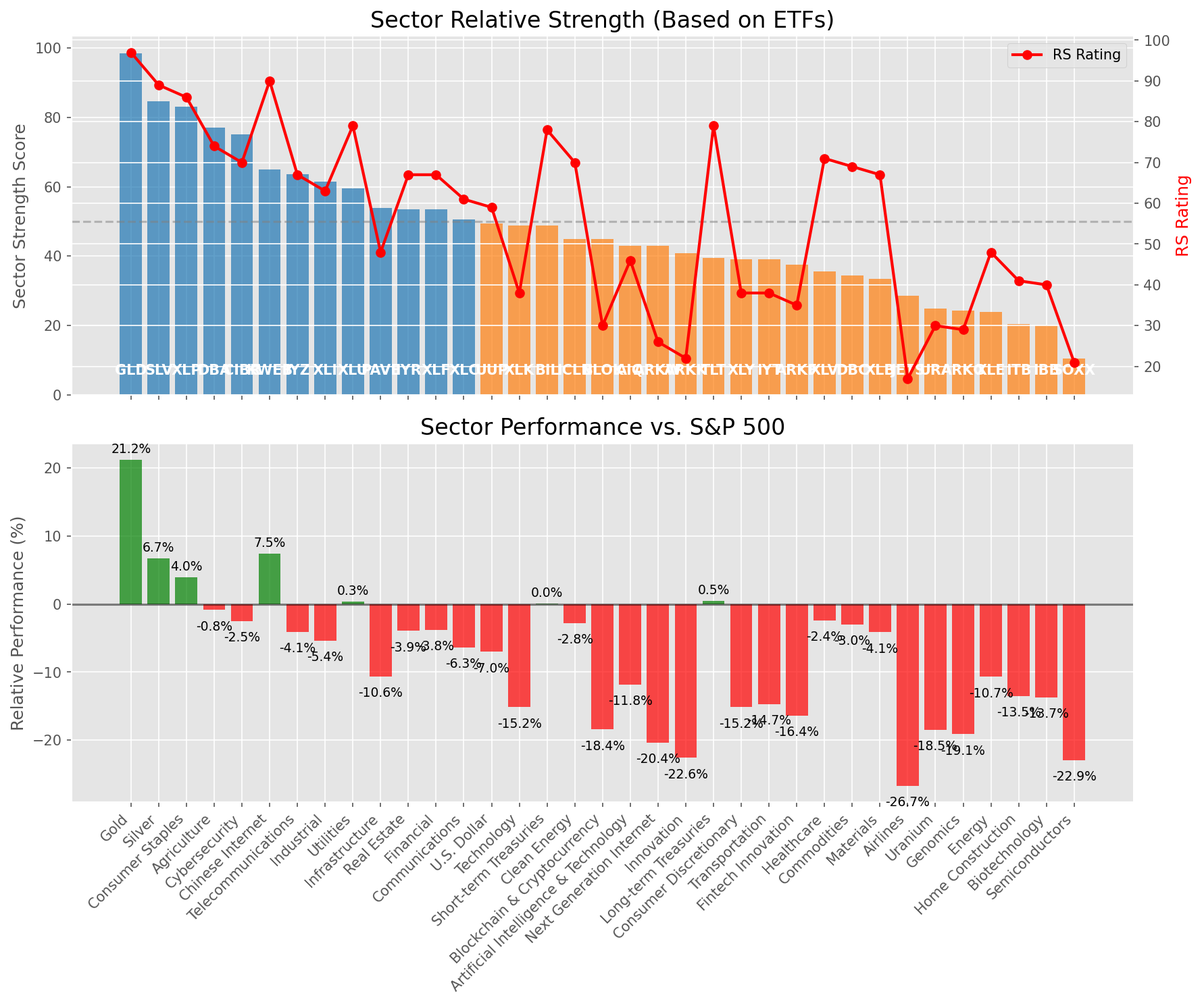
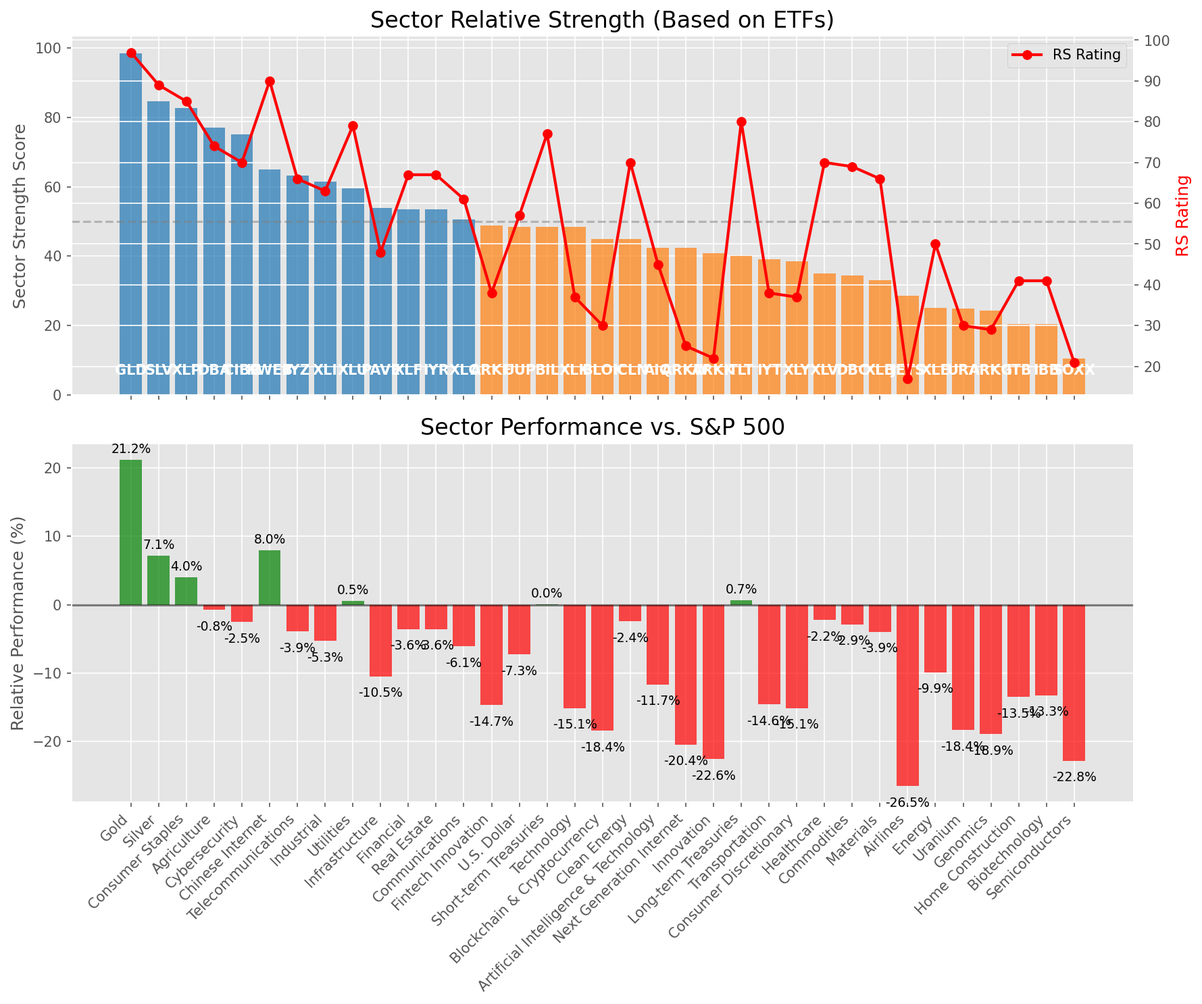
Add market report for 2025-04-11

diff --git a/oneil_relative_strength_report_2025-04-11.md b/oneil_relative_strength_report_2025-04-11.md
@@ -9,11 +9,11 @@
 | Metric | Value |
 |--------|-------|
 | **Market Valuation** | **Significantly Undervalued** |
-| **Current Ratio** | 8.78 |
+| **Current Ratio** | 8.81 |
 | **Historical Mean** | 9.69 |
 | **Standard Deviation** | 0.44 |
 | **Z-Score (StdDev from Mean)** | -2.33 |
-| **Total Market Cap** | $261.09 trillion |
+| **Total Market Cap** | $261.95 trillion |
 | **GDP** | $29.72 trillion |
 
 ## **Market Insights**
@@ -49,41 +49,41 @@ Based on William O'Neil's Relative Strength Methodology
 
 | ETF | Strength | RS Rating | Performance | Above Key MAs | Trend | Sector |
 |-----|----------|-----------|-------------|--------------|-------|--------|
-| [GLD](https://www.tradingview.com/chart/?symbol=GLD) | 98.5 | 97.0 | 21.24% | 10d ✓, 50d ✓, 200d ✓ | ↗ | Gold |
-| [SLV](https://www.tradingview.com/chart/?symbol=SLV) | 84.6 | 89.0 | 6.70% | 10d ✓, 50d ✗, 200d ✓ | ↗ | Silver |
-| [XLP](https://www.tradingview.com/chart/?symbol=XLP) | 83.1 | 86.0 | 3.99% | 10d ✓, 50d ✗, 200d ✓ | ↗ | Consumer Staples |
-| [DBA](https://www.tradingview.com/chart/?symbol=DBA) | 77.1 | 74.0 | -0.85% | 10d ✓, 50d ✗, 200d ✓ | ↗ | Agriculture |
-| [CIBR](https://www.tradingview.com/chart/?symbol=CIBR) | 75.1 | 70.0 | -2.49% | 10d ✓, 50d ✗, 200d ✓ | ↗ | Cybersecurity |
-| [KWEB](https://www.tradingview.com/chart/?symbol=KWEB) | 65.0 | 90.0 | 7.46% | 10d ✗, 50d ✗, 200d ✗ | ↗ | Chinese Internet |
-| [IYZ](https://www.tradingview.com/chart/?symbol=IYZ) | 63.7 | 67.0 | -4.05% | 10d ✗, 50d ✗, 200d ✓ | ↗ | Telecommunications |
-| [XLI](https://www.tradingview.com/chart/?symbol=XLI) | 61.4 | 63.0 | -5.39% | 10d ✓, 50d ✗, 200d ✗ | ↗ | Industrial |
-| [XLU](https://www.tradingview.com/chart/?symbol=XLU) | 59.5 | 79.0 | 0.33% | 10d ✗, 50d ✗, 200d ✗ | ↗ | Utilities |
-| [PAVE](https://www.tradingview.com/chart/?symbol=PAVE) | 53.9 | 48.0 | -10.64% | 10d ✓, 50d ✗, 200d ✗ | ↗ | Infrastructure |
-| [IYR](https://www.tradingview.com/chart/?symbol=IYR) | 53.5 | 67.0 | -3.92% | 10d ✗, 50d ✗, 200d ✗ | ↗ | Real Estate |
-| [XLF](https://www.tradingview.com/chart/?symbol=XLF) | 53.5 | 67.0 | -3.75% | 10d ✗, 50d ✗, 200d ✗ | ↗ | Financial |
-| [XLC](https://www.tradingview.com/chart/?symbol=XLC) | 50.5 | 61.0 | -6.34% | 10d ✗, 50d ✗, 200d ✗ | ↗ | Communications |
-| [UUP](https://www.tradingview.com/chart/?symbol=UUP) | 49.5 | 59.0 | -7.02% | 10d ✗, 50d ✗, 200d ✗ | ↗ | U.S. Dollar |
-| [XLK](https://www.tradingview.com/chart/?symbol=XLK) | 48.9 | 38.0 | -15.17% | 10d ✓, 50d ✗, 200d ✗ | ↗ | Technology |
-| [BIL](https://www.tradingview.com/chart/?symbol=BIL) | 48.9 | 78.0 | 0.04% | 10d ✓, 50d ✗, 200d ✗ | ↘ | Short-term Treasuries |
-| [ICLN](https://www.tradingview.com/chart/?symbol=ICLN) | 44.9 | 70.0 | -2.78% | 10d ✓, 50d ✗, 200d ✗ | ↘ | Clean Energy |
+| [GLD](https://www.tradingview.com/chart/?symbol=GLD) | 98.5 | 97.0 | 21.20% | 10d ✓, 50d ✓, 200d ✓ | ↗ | Gold |
+| [SLV](https://www.tradingview.com/chart/?symbol=SLV) | 84.6 | 89.0 | 7.12% | 10d ✓, 50d ✗, 200d ✓ | ↗ | Silver |
+| [XLP](https://www.tradingview.com/chart/?symbol=XLP) | 82.6 | 85.0 | 4.04% | 10d ✓, 50d ✗, 200d ✓ | ↗ | Consumer Staples |
+| [DBA](https://www.tradingview.com/chart/?symbol=DBA) | 77.1 | 74.0 | -0.77% | 10d ✓, 50d ✗, 200d ✓ | ↗ | Agriculture |
+| [CIBR](https://www.tradingview.com/chart/?symbol=CIBR) | 75.1 | 70.0 | -2.54% | 10d ✓, 50d ✗, 200d ✓ | ↗ | Cybersecurity |
+| [KWEB](https://www.tradingview.com/chart/?symbol=KWEB) | 65.0 | 90.0 | 8.00% | 10d ✗, 50d ✗, 200d ✗ | ↗ | Chinese Internet |
+| [IYZ](https://www.tradingview.com/chart/?symbol=IYZ) | 63.2 | 66.0 | -3.94% | 10d ✗, 50d ✗, 200d ✓ | ↗ | Telecommunications |
+| [XLI](https://www.tradingview.com/chart/?symbol=XLI) | 61.4 | 63.0 | -5.29% | 10d ✓, 50d ✗, 200d ✗ | ↗ | Industrial |
+| [XLU](https://www.tradingview.com/chart/?symbol=XLU) | 59.5 | 79.0 | 0.54% | 10d ✗, 50d ✗, 200d ✗ | ↗ | Utilities |
+| [PAVE](https://www.tradingview.com/chart/?symbol=PAVE) | 53.9 | 48.0 | -10.48% | 10d ✓, 50d ✗, 200d ✗ | ↗ | Infrastructure |
+| [XLF](https://www.tradingview.com/chart/?symbol=XLF) | 53.5 | 67.0 | -3.60% | 10d ✗, 50d ✗, 200d ✗ | ↗ | Financial |
+| [IYR](https://www.tradingview.com/chart/?symbol=IYR) | 53.5 | 67.0 | -3.59% | 10d ✗, 50d ✗, 200d ✗ | ↗ | Real Estate |
+| [XLC](https://www.tradingview.com/chart/?symbol=XLC) | 50.5 | 61.0 | -6.11% | 10d ✗, 50d ✗, 200d ✗ | ↗ | Communications |
+| [ARKF](https://www.tradingview.com/chart/?symbol=ARKF) | 48.9 | 38.0 | -14.68% | 10d ✓, 50d ✗, 200d ✗ | ↗ | Fintech Innovation |
+| [UUP](https://www.tradingview.com/chart/?symbol=UUP) | 48.5 | 57.0 | -7.26% | 10d ✗, 50d ✗, 200d ✗ | ↗ | U.S. Dollar |
+| [BIL](https://www.tradingview.com/chart/?symbol=BIL) | 48.4 | 77.0 | 0.04% | 10d ✓, 50d ✗, 200d ✗ | ↘ | Short-term Treasuries |
+| [XLK](https://www.tradingview.com/chart/?symbol=XLK) | 48.4 | 37.0 | -15.12% | 10d ✓, 50d ✗, 200d ✗ | ↗ | Technology |
 | [BLOK](https://www.tradingview.com/chart/?symbol=BLOK) | 44.9 | 30.0 | -18.42% | 10d ✓, 50d ✗, 200d ✗ | ↗ | Blockchain & Cryptocurrency |
-| [AIQ](https://www.tradingview.com/chart/?symbol=AIQ) | 43.0 | 46.0 | -11.81% | 10d ✗, 50d ✗, 200d ✗ | ↗ | Artificial Intelligence & Technology |
-| [ARKW](https://www.tradingview.com/chart/?symbol=ARKW) | 42.9 | 26.0 | -20.37% | 10d ✓, 50d ✗, 200d ✗ | ↗ | Next Generation Internet |
-| [ARKK](https://www.tradingview.com/chart/?symbol=ARKK) | 40.9 | 22.0 | -22.61% | 10d ✓, 50d ✗, 200d ✗ | ↗ | Innovation |
-| [TLT](https://www.tradingview.com/chart/?symbol=TLT) | 39.5 | 79.0 | 0.48% | 10d ✗, 50d ✗, 200d ✗ | ↘ | Long-term Treasuries |
-| [XLY](https://www.tradingview.com/chart/?symbol=XLY) | 39.0 | 38.0 | -15.16% | 10d ✗, 50d ✗, 200d ✗ | ↗ | Consumer Discretionary |
-| [IYT](https://www.tradingview.com/chart/?symbol=IYT) | 39.0 | 38.0 | -14.70% | 10d ✗, 50d ✗, 200d ✗ | ↗ | Transportation |
-| [ARKF](https://www.tradingview.com/chart/?symbol=ARKF) | 37.5 | 35.0 | -16.38% | 10d ✗, 50d ✗, 200d ✗ | ↗ | Fintech Innovation |
-| [XLV](https://www.tradingview.com/chart/?symbol=XLV) | 35.5 | 71.0 | -2.41% | 10d ✗, 50d ✗, 200d ✗ | ↘ | Healthcare |
-| [DBC](https://www.tradingview.com/chart/?symbol=DBC) | 34.5 | 69.0 | -2.97% | 10d ✗, 50d ✗, 200d ✗ | ↘ | Commodities |
-| [XLB](https://www.tradingview.com/chart/?symbol=XLB) | 33.5 | 67.0 | -4.13% | 10d ✗, 50d ✗, 200d ✗ | ↘ | Materials |
-| [JETS](https://www.tradingview.com/chart/?symbol=JETS) | 28.5 | 17.0 | -26.74% | 10d ✗, 50d ✗, 200d ✗ | ↗ | Airlines |
-| [URA](https://www.tradingview.com/chart/?symbol=URA) | 24.9 | 30.0 | -18.46% | 10d ✓, 50d ✗, 200d ✗ | ↘ | Uranium |
-| [ARKG](https://www.tradingview.com/chart/?symbol=ARKG) | 24.4 | 29.0 | -19.12% | 10d ✓, 50d ✗, 200d ✗ | ↘ | Genomics |
-| [XLE](https://www.tradingview.com/chart/?symbol=XLE) | 24.0 | 48.0 | -10.68% | 10d ✗, 50d ✗, 200d ✗ | ↘ | Energy |
-| [ITB](https://www.tradingview.com/chart/?symbol=ITB) | 20.5 | 41.0 | -13.49% | 10d ✗, 50d ✗, 200d ✗ | ↘ | Home Construction |
-| [IBB](https://www.tradingview.com/chart/?symbol=IBB) | 20.0 | 40.0 | -13.71% | 10d ✗, 50d ✗, 200d ✗ | ↘ | Biotechnology |
-| [SOXX](https://www.tradingview.com/chart/?symbol=SOXX) | 10.5 | 21.0 | -22.92% | 10d ✗, 50d ✗, 200d ✗ | ↘ | Semiconductors |
+| [ICLN](https://www.tradingview.com/chart/?symbol=ICLN) | 44.9 | 70.0 | -2.43% | 10d ✓, 50d ✗, 200d ✗ | ↘ | Clean Energy |
+| [AIQ](https://www.tradingview.com/chart/?symbol=AIQ) | 42.5 | 45.0 | -11.65% | 10d ✗, 50d ✗, 200d ✗ | ↗ | Artificial Intelligence & Technology |
+| [ARKW](https://www.tradingview.com/chart/?symbol=ARKW) | 42.4 | 25.0 | -20.44% | 10d ✓, 50d ✗, 200d ✗ | ↗ | Next Generation Internet |
+| [ARKK](https://www.tradingview.com/chart/?symbol=ARKK) | 40.9 | 22.0 | -22.60% | 10d ✓, 50d ✗, 200d ✗ | ↗ | Innovation |
+| [TLT](https://www.tradingview.com/chart/?symbol=TLT) | 40.0 | 80.0 | 0.68% | 10d ✗, 50d ✗, 200d ✗ | ↘ | Long-term Treasuries |
+| [IYT](https://www.tradingview.com/chart/?symbol=IYT) | 39.0 | 38.0 | -14.60% | 10d ✗, 50d ✗, 200d ✗ | ↗ | Transportation |
+| [XLY](https://www.tradingview.com/chart/?symbol=XLY) | 38.5 | 37.0 | -15.14% | 10d ✗, 50d ✗, 200d ✗ | ↗ | Consumer Discretionary |
+| [XLV](https://www.tradingview.com/chart/?symbol=XLV) | 35.0 | 70.0 | -2.24% | 10d ✗, 50d ✗, 200d ✗ | ↘ | Healthcare |
+| [DBC](https://www.tradingview.com/chart/?symbol=DBC) | 34.5 | 69.0 | -2.87% | 10d ✗, 50d ✗, 200d ✗ | ↘ | Commodities |
+| [XLB](https://www.tradingview.com/chart/?symbol=XLB) | 33.0 | 66.0 | -3.94% | 10d ✗, 50d ✗, 200d ✗ | ↘ | Materials |
+| [JETS](https://www.tradingview.com/chart/?symbol=JETS) | 28.5 | 17.0 | -26.50% | 10d ✗, 50d ✗, 200d ✗ | ↗ | Airlines |
+| [XLE](https://www.tradingview.com/chart/?symbol=XLE) | 25.0 | 50.0 | -9.92% | 10d ✗, 50d ✗, 200d ✗ | ↘ | Energy |
+| [URA](https://www.tradingview.com/chart/?symbol=URA) | 24.9 | 30.0 | -18.35% | 10d ✓, 50d ✗, 200d ✗ | ↘ | Uranium |
+| [ARKG](https://www.tradingview.com/chart/?symbol=ARKG) | 24.4 | 29.0 | -18.95% | 10d ✓, 50d ✗, 200d ✗ | ↘ | Genomics |
+| [ITB](https://www.tradingview.com/chart/?symbol=ITB) | 20.5 | 41.0 | -13.51% | 10d ✗, 50d ✗, 200d ✗ | ↘ | Home Construction |
+| [IBB](https://www.tradingview.com/chart/?symbol=IBB) | 20.5 | 41.0 | -13.27% | 10d ✗, 50d ✗, 200d ✗ | ↘ | Biotechnology |
+| [SOXX](https://www.tradingview.com/chart/?symbol=SOXX) | 10.5 | 21.0 | -22.80% | 10d ✗, 50d ✗, 200d ✗ | ↘ | Semiconductors |
 
 ### **Sector ETF Performance Interpretation**
 
@@ -100,146 +100,149 @@ This table shows the relative strength metrics for different market sectors base
 
 The current market leadership is coming from the following sectors: **Gold, Silver, Consumer Staples**.
 
-The **Gold** sector (represented by **GLD**) is showing particularly strong relative strength with an RS rating of 97.0 and performance of 21.24% vs. the S&P 500. This sector is trading above its 10-day, 50-day, 200-day moving average(s). Investors should consider focusing on high RS stocks within these leading sectors for potential outperformance.
+The **Gold** sector (represented by **GLD**) is showing particularly strong relative strength with an RS rating of 97.0 and performance of 21.20% vs. the S&P 500. This sector is trading above its 10-day, 50-day, 200-day moving average(s). Investors should consider focusing on high RS stocks within these leading sectors for potential outperformance.
 
 ---
 
 ## **Buy Recommendations**
 
-The following 71 stocks show exceptional relative strength:
+The following 75 stocks show exceptional relative strength:
 
 | RS Rating | Buy Score | Current Price | Chart | Name | Ticker |
 |-----------|-----------|---------------|-------|------|--------|
-| 100 | 100 | $82.75 | [Chart](https://www.tradingview.com/chart/?symbol=WPM) | Wheaton Precious Metals Corp. Common Stock | WPM |
-| 100 | 100 | $29.57 | [Chart](https://www.tradingview.com/chart/?symbol=AGI) | Alamos Gold Inc. Class A Common Shares | AGI |
+| 100 | 100 | $29.44 | [Chart](https://www.tradingview.com/chart/?symbol=AGI) | Alamos Gold Inc. Class A Common Shares | AGI |
+| 100 | 100 | $82.87 | [Chart](https://www.tradingview.com/chart/?symbol=WPM) | Wheaton Precious Metals Corp. Common Stock | WPM |
+| 99 | 100 | $22.40 | [Chart](https://www.tradingview.com/chart/?symbol=DB) | Deutsche Bank Aktiengesellschaft | DB |
 | 99 | 100 | $18.48 | [Chart](https://www.tradingview.com/chart/?symbol=SWI) | SolarWinds Corporation Common Stock | SWI |
-| 99 | 100 | $30.99 | [Chart](https://www.tradingview.com/chart/?symbol=LTH) | Life Time Group Holdings, Inc. | LTH |
-| 99 | 100 | $22.27 | [Chart](https://www.tradingview.com/chart/?symbol=DB) | Deutsche Bank Aktiengesellschaft | DB |
-| 99 | 100 | $118.11 | [Chart](https://www.tradingview.com/chart/?symbol=AEM) | Agnico Eagle Mines Ltd. | AEM |
-| 99 | 100 | $146.32 | [Chart](https://www.tradingview.com/chart/?symbol=PLMR) | Palomar Holdings, Inc. Common stock | PLMR |
-| 99 | 100 | $15.70 | [Chart](https://www.tradingview.com/chart/?symbol=EZPW) | Ezcorp Inc | EZPW |
-| 99 | 100 | $61.41 | [Chart](https://www.tradingview.com/chart/?symbol=GDXJ) | VanEck Junior Gold Miners ETF | GDXJ |
-| 99 | 100 | $136.05 | [Chart](https://www.tradingview.com/chart/?symbol=UGL) | ProShares Ultra Gold | UGL |
-| 99 | 100 | $180.90 | [Chart](https://www.tradingview.com/chart/?symbol=RGLD) | Royal Gold Inc | RGLD |
-| 98 | 100 | $117.29 | [Chart](https://www.tradingview.com/chart/?symbol=BJ) | BJs Wholesale Club Holdings, Inc. Common Stock | BJ |
-| 98 | 100 | $76.43 | [Chart](https://www.tradingview.com/chart/?symbol=NFG) | National Fuel Gas Co. | NFG |
-| 98 | 100 | $30.85 | [Chart](https://www.tradingview.com/chart/?symbol=SGOL) | abrdn Physical Gold Shares ETF | SGOL |
+| 99 | 100 | $31.07 | [Chart](https://www.tradingview.com/chart/?symbol=LTH) | Life Time Group Holdings, Inc. | LTH |
+| 99 | 100 | $118.35 | [Chart](https://www.tradingview.com/chart/?symbol=AEM) | Agnico Eagle Mines Ltd. | AEM |
+| 99 | 100 | $136.01 | [Chart](https://www.tradingview.com/chart/?symbol=UGL) | ProShares Ultra Gold | UGL |
+| 99 | 100 | $61.48 | [Chart](https://www.tradingview.com/chart/?symbol=GDXJ) | VanEck Junior Gold Miners ETF | GDXJ |
+| 99 | 100 | $146.65 | [Chart](https://www.tradingview.com/chart/?symbol=PLMR) | Palomar Holdings, Inc. Common stock | PLMR |
+| 99 | 100 | $180.70 | [Chart](https://www.tradingview.com/chart/?symbol=RGLD) | Royal Gold Inc | RGLD |
+| 99 | 100 | $15.69 | [Chart](https://www.tradingview.com/chart/?symbol=EZPW) | Ezcorp Inc | EZPW |
+| 98 | 100 | $60.98 | [Chart](https://www.tradingview.com/chart/?symbol=IAU) | iShares Gold Trust | IAU |
+| 98 | 100 | $116.82 | [Chart](https://www.tradingview.com/chart/?symbol=BJ) | BJs Wholesale Club Holdings, Inc. Common Stock | BJ |
+| 98 | 100 | $30.84 | [Chart](https://www.tradingview.com/chart/?symbol=SGOL) | abrdn Physical Gold Shares ETF | SGOL |
+| 98 | 100 | $154.51 | [Chart](https://www.tradingview.com/chart/?symbol=PM) | Philip Morris International Inc. | PM |
+| 98 | 100 | $76.69 | [Chart](https://www.tradingview.com/chart/?symbol=NFG) | National Fuel Gas Co. | NFG |
 | 98 | 100 | $32.24 | [Chart](https://www.tradingview.com/chart/?symbol=IAUM) | iShares Gold Trust Micro | IAUM |
-| 98 | 100 | $64.03 | [Chart](https://www.tradingview.com/chart/?symbol=GLDM) | SPDR Gold MiniShares | GLDM |
-| 98 | 100 | $154.43 | [Chart](https://www.tradingview.com/chart/?symbol=PM) | Philip Morris International Inc. | PM |
-| 97 | 100 | $258.79 | [Chart](https://www.tradingview.com/chart/?symbol=TMUS) | T-Mobile US, Inc. | TMUS |
-| 97 | 100 | $60.98 | [Chart](https://www.tradingview.com/chart/?symbol=IAU) | iShares Gold Trust | IAU |
-| 97 | 100 | $31.90 | [Chart](https://www.tradingview.com/chart/?symbol=BAR) | GraniteShares Gold Shares | BAR |
-| 97 | 100 | $298.07 | [Chart](https://www.tradingview.com/chart/?symbol=GLD) | SPDR Gold Trust, SPDR Gold Shares | GLD |
-| 97 | 100 | $24.82 | [Chart](https://www.tradingview.com/chart/?symbol=PHYS) | Sprott Physical Gold Trust | PHYS |
-| 97 | 100 | $22.30 | [Chart](https://www.tradingview.com/chart/?symbol=OR) | Osisko Gold Royalties Ltd | OR |
-| 97 | 100 | $72.56 | [Chart](https://www.tradingview.com/chart/?symbol=RYAN) | Ryan Specialty Holdings, Inc. | RYAN |
+| 98 | 100 | $64.02 | [Chart](https://www.tradingview.com/chart/?symbol=GLDM) | SPDR Gold MiniShares | GLDM |
+| 97 | 100 | $24.80 | [Chart](https://www.tradingview.com/chart/?symbol=PHYS) | Sprott Physical Gold Trust | PHYS |
+| 97 | 100 | $31.89 | [Chart](https://www.tradingview.com/chart/?symbol=BAR) | GraniteShares Gold Shares | BAR |
+| 97 | 100 | $72.76 | [Chart](https://www.tradingview.com/chart/?symbol=RYAN) | Ryan Specialty Holdings, Inc. | RYAN |
+| 97 | 100 | $259.33 | [Chart](https://www.tradingview.com/chart/?symbol=TMUS) | T-Mobile US, Inc. | TMUS |
+| 97 | 100 | $297.98 | [Chart](https://www.tradingview.com/chart/?symbol=GLD) | SPDR Gold Trust, SPDR Gold Shares | GLD |
 | 97 | 100 | $31.16 | [Chart](https://www.tradingview.com/chart/?symbol=OUNZ) | VanEck Merk Gold ETF | OUNZ |
-| 97 | 100 | $45.91 | [Chart](https://www.tradingview.com/chart/?symbol=EXC) | Exelon Corporation | EXC |
-| 97 | 100 | $22.32 | [Chart](https://www.tradingview.com/chart/?symbol=SRAD) | Sportradar Group AG Class A Ordinary Shares | SRAD |
-| 96 | 100 | $243.93 | [Chart](https://www.tradingview.com/chart/?symbol=RSG) | Republic Services Inc. | RSG |
-| 96 | 100 | $332.79 | [Chart](https://www.tradingview.com/chart/?symbol=AJG) | Arthur J. Gallagher & Co. | AJG |
+| 97 | 100 | $46.00 | [Chart](https://www.tradingview.com/chart/?symbol=EXC) | Exelon Corporation | EXC |
+| 97 | 100 | $22.38 | [Chart](https://www.tradingview.com/chart/?symbol=OR) | Osisko Gold Royalties Ltd | OR |
+| 97 | 100 | $22.50 | [Chart](https://www.tradingview.com/chart/?symbol=SRAD) | Sportradar Group AG Class A Ordinary Shares | SRAD |
 | 96 | 100 | $36.46 | [Chart](https://www.tradingview.com/chart/?symbol=CNP) | CenterPoint Energy, Inc. | CNP |
-| 96 | 100 | $38.02 | [Chart](https://www.tradingview.com/chart/?symbol=MRX) | Marex Group plc Ordinary Shares | MRX |
+| 96 | 100 | $334.37 | [Chart](https://www.tradingview.com/chart/?symbol=AJG) | Arthur J. Gallagher & Co. | AJG |
+| 96 | 100 | $243.56 | [Chart](https://www.tradingview.com/chart/?symbol=RSG) | Republic Services Inc. | RSG |
+| 95 | 100 | $37.91 | [Chart](https://www.tradingview.com/chart/?symbol=MRX) | Marex Group plc Ordinary Shares | MRX |
+| 95 | 100 | $68.24 | [Chart](https://www.tradingview.com/chart/?symbol=KR) | The Kroger Co. | KR |
 | 95 | 100 | $52.90 | [Chart](https://www.tradingview.com/chart/?symbol=PPC) | Pilgrims Pride Corporation | PPC |
-| 95 | 100 | $24.07 | [Chart](https://www.tradingview.com/chart/?symbol=PRVA) | Privia Health Group, Inc. Common Stock | PRVA |
-| 95 | 100 | $455.26 | [Chart](https://www.tradingview.com/chart/?symbol=CASY) | Casey's General Stores Inc | CASY |
-| 95 | 100 | $28.66 | [Chart](https://www.tradingview.com/chart/?symbol=CEF) | Sprott Physical Gold and Silver Trust | CEF |
-| 95 | 100 | $68.35 | [Chart](https://www.tradingview.com/chart/?symbol=KR) | The Kroger Co. | KR |
-| 95 | 100 | $522.86 | [Chart](https://www.tradingview.com/chart/?symbol=BRK.B) | BERKSHIRE HATHAWAY Class B | BRK.B |
-| 94 | 100 | $86.87 | [Chart](https://www.tradingview.com/chart/?symbol=CCEP) | Coca-Cola Europacific Partners plc Ordinary Shares | CCEP |
-| 94 | 100 | $106.86 | [Chart](https://www.tradingview.com/chart/?symbol=WEC) | WEC Energy Group, Inc. | WEC |
-| 94 | 100 | $32.85 | [Chart](https://www.tradingview.com/chart/?symbol=KTOS) | Kratos Defense & Security Solutions, Inc. | KTOS |
-| 94 | 100 | $41.59 | [Chart](https://www.tradingview.com/chart/?symbol=BTI) | British American Tobacco p.l.c. American Depositary Shares, American Depositary Shares, each representing one Ordinary Share | BTI |
-| 94 | 100 | $210.05 | [Chart](https://www.tradingview.com/chart/?symbol=TTWO) | Take-Two Interactive Software Inc | TTWO |
-| 94 | 100 | $274.40 | [Chart](https://www.tradingview.com/chart/?symbol=PGR) | Progressive Corporation | PGR |
-| 94 | 100 | $262.70 | [Chart](https://www.tradingview.com/chart/?symbol=CME) | CME Group Inc. | CME |
-| 94 | 100 | $56.09 | [Chart](https://www.tradingview.com/chart/?symbol=ULS) | UL Solutions Inc. | ULS |
-| 93 | 100 | $103.33 | [Chart](https://www.tradingview.com/chart/?symbol=EHC) | Encompass Health Corporation Common Stock | EHC |
-| 93 | 100 | $80.88 | [Chart](https://www.tradingview.com/chart/?symbol=FAST) | Fastenal Co | FAST |
-| 93 | 100 | $156.50 | [Chart](https://www.tradingview.com/chart/?symbol=SFM) | Sprouts Farmers Market, Inc. | SFM |
-| 92 | 100 | $104.19 | [Chart](https://www.tradingview.com/chart/?symbol=ATGE) | Adtalem Global Education Inc. Common Shares | ATGE |
-| 92 | 100 | $194.22 | [Chart](https://www.tradingview.com/chart/?symbol=WCN) | Waste Connections, Inc. | WCN |
-| 91 | 100 | $151.30 | [Chart](https://www.tradingview.com/chart/?symbol=ATO) | Atmos Energy Corporation | ATO |
-| 91 | 100 | $114.24 | [Chart](https://www.tradingview.com/chart/?symbol=OLLI) | Ollie's Bargain Outlet Holdings, Inc. Common Stock | OLLI |
-| 90 | 100 | $308.93 | [Chart](https://www.tradingview.com/chart/?symbol=MCD) | McDonald's Corporation | MCD |
-| 90 | 100 | $48.03 | [Chart](https://www.tradingview.com/chart/?symbol=GFL) | GFL Environmental Inc. Subordinate Voting Shares | GFL |
-| 90 | 100 | $215.16 | [Chart](https://www.tradingview.com/chart/?symbol=PAYC) | PAYCOM SOFTWARE, INC. | PAYC |
-| 90 | 100 | $74.86 | [Chart](https://www.tradingview.com/chart/?symbol=ADC) | Agree Realty Corporation | ADC |
-| 89 | 100 | $275.10 | [Chart](https://www.tradingview.com/chart/?symbol=PEN) | Penumbra, Inc. | PEN |
-| 89 | 100 | $114.85 | [Chart](https://www.tradingview.com/chart/?symbol=CWST) | Casella Waste Systems Inc | CWST |
-| 88 | 100 | $117.15 | [Chart](https://www.tradingview.com/chart/?symbol=IDA) | IDACORP, Inc. | IDA |
-| 88 | 99 | $49.62 | [Chart](https://www.tradingview.com/chart/?symbol=RELX) | RELX PLC | RELX |
-| 87 | 99 | $46.25 | [Chart](https://www.tradingview.com/chart/?symbol=MRCY) | Mercury Systems Inc. | MRCY |
+| 95 | 100 | $24.10 | [Chart](https://www.tradingview.com/chart/?symbol=PRVA) | Privia Health Group, Inc. Common Stock | PRVA |
+| 95 | 100 | $456.07 | [Chart](https://www.tradingview.com/chart/?symbol=CASY) | Casey's General Stores Inc | CASY |
+| 95 | 100 | $28.68 | [Chart](https://www.tradingview.com/chart/?symbol=CEF) | Sprott Physical Gold and Silver Trust | CEF |
+| 95 | 100 | $27.43 | [Chart](https://www.tradingview.com/chart/?symbol=EUFN) | iShares MSCI Europe Financials ETF | EUFN |
+| 95 | 100 | $523.66 | [Chart](https://www.tradingview.com/chart/?symbol=BRK.B) | BERKSHIRE HATHAWAY Class B | BRK.B |
+| 94 | 100 | $87.00 | [Chart](https://www.tradingview.com/chart/?symbol=CCEP) | Coca-Cola Europacific Partners plc Ordinary Shares | CCEP |
+| 94 | 100 | $33.12 | [Chart](https://www.tradingview.com/chart/?symbol=KTOS) | Kratos Defense & Security Solutions, Inc. | KTOS |
+| 94 | 100 | $262.95 | [Chart](https://www.tradingview.com/chart/?symbol=CME) | CME Group Inc. | CME |
+| 94 | 100 | $41.58 | [Chart](https://www.tradingview.com/chart/?symbol=BTI) | British American Tobacco p.l.c. American Depositary Shares, American Depositary Shares, each representing one Ordinary Share | BTI |
+| 94 | 100 | $107.26 | [Chart](https://www.tradingview.com/chart/?symbol=WEC) | WEC Energy Group, Inc. | WEC |
+| 94 | 100 | $52.08 | [Chart](https://www.tradingview.com/chart/?symbol=SKWD) | Skyward Specialty Insurance Group, Inc. Common Stock | SKWD |
+| 94 | 100 | $210.02 | [Chart](https://www.tradingview.com/chart/?symbol=TTWO) | Take-Two Interactive Software Inc | TTWO |
+| 94 | 100 | $275.09 | [Chart](https://www.tradingview.com/chart/?symbol=PGR) | Progressive Corporation | PGR |
+| 94 | 100 | $56.29 | [Chart](https://www.tradingview.com/chart/?symbol=ULS) | UL Solutions Inc. | ULS |
+| 93 | 100 | $155.97 | [Chart](https://www.tradingview.com/chart/?symbol=SFM) | Sprouts Farmers Market, Inc. | SFM |
+| 93 | 100 | $103.12 | [Chart](https://www.tradingview.com/chart/?symbol=EHC) | Encompass Health Corporation Common Stock | EHC |
+| 92 | 100 | $80.70 | [Chart](https://www.tradingview.com/chart/?symbol=FAST) | Fastenal Co | FAST |
+| 92 | 100 | $103.93 | [Chart](https://www.tradingview.com/chart/?symbol=ATGE) | Adtalem Global Education Inc. Common Shares | ATGE |
+| 92 | 100 | $194.44 | [Chart](https://www.tradingview.com/chart/?symbol=WCN) | Waste Connections, Inc. | WCN |
+| 91 | 100 | $151.88 | [Chart](https://www.tradingview.com/chart/?symbol=ATO) | Atmos Energy Corporation | ATO |
+| 91 | 100 | $114.17 | [Chart](https://www.tradingview.com/chart/?symbol=OLLI) | Ollie's Bargain Outlet Holdings, Inc. Common Stock | OLLI |
+| 91 | 100 | $74.50 | [Chart](https://www.tradingview.com/chart/?symbol=OGS) | ONE GAS, INC. | OGS |
+| 90 | 100 | $132.54 | [Chart](https://www.tradingview.com/chart/?symbol=CAH) | Cardinal Health, Inc. | CAH |
+| 90 | 100 | $214.54 | [Chart](https://www.tradingview.com/chart/?symbol=PAYC) | PAYCOM SOFTWARE, INC. | PAYC |
+| 90 | 100 | $309.74 | [Chart](https://www.tradingview.com/chart/?symbol=MCD) | McDonald's Corporation | MCD |
+| 90 | 100 | $75.16 | [Chart](https://www.tradingview.com/chart/?symbol=ADC) | Agree Realty Corporation | ADC |
+| 90 | 100 | $48.23 | [Chart](https://www.tradingview.com/chart/?symbol=GFL) | GFL Environmental Inc. Subordinate Voting Shares | GFL |
+| 89 | 100 | $276.12 | [Chart](https://www.tradingview.com/chart/?symbol=PEN) | Penumbra, Inc. | PEN |
+| 89 | 100 | $114.81 | [Chart](https://www.tradingview.com/chart/?symbol=CWST) | Casella Waste Systems Inc | CWST |
+| 88 | 100 | $117.46 | [Chart](https://www.tradingview.com/chart/?symbol=IDA) | IDACORP, Inc. | IDA |
+| 88 | 100 | $46.64 | [Chart](https://www.tradingview.com/chart/?symbol=MRCY) | Mercury Systems Inc. | MRCY |
+| 88 | 99 | $49.54 | [Chart](https://www.tradingview.com/chart/?symbol=RELX) | RELX PLC | RELX |
 | 86 | 99 | $18.07 | [Chart](https://www.tradingview.com/chart/?symbol=GRND) | Grindr Inc. | GRND |
-| 86 | 98 | $34.72 | [Chart](https://www.tradingview.com/chart/?symbol=DRS) | Leonardo DRS, Inc. Common Stock | DRS |
-| 87 | 97 | $128.62 | [Chart](https://www.tradingview.com/chart/?symbol=TJX) | TJX Companies, Inc. (The) | TJX |
-| 86 | 97 | $292.41 | [Chart](https://www.tradingview.com/chart/?symbol=VRSK) | Verisk Analytics, Inc. Common Stock | VRSK |
-| 85 | 96 | $75.29 | [Chart](https://www.tradingview.com/chart/?symbol=BRBR) | BellRing Brands, Inc. | BRBR |
+| 86 | 98 | $34.93 | [Chart](https://www.tradingview.com/chart/?symbol=DRS) | Leonardo DRS, Inc. Common Stock | DRS |
+| 87 | 97 | $128.04 | [Chart](https://www.tradingview.com/chart/?symbol=TJX) | TJX Companies, Inc. (The) | TJX |
+| 85 | 96 | $75.55 | [Chart](https://www.tradingview.com/chart/?symbol=BRBR) | BellRing Brands, Inc. | BRBR |
+| 84 | 94 | $59.62 | [Chart](https://www.tradingview.com/chart/?symbol=RYTM) | Rhythm Pharmaceuticals, Inc. Common Stock | RYTM |
 | 82 | 94 | $22.48 | [Chart](https://www.tradingview.com/chart/?symbol=ATSG) | Air Transport Services Group, Inc. | ATSG |
-| 81 | 94 | $111.66 | [Chart](https://www.tradingview.com/chart/?symbol=BOXX) | Alpha Architect 1-3 Month Box ETF | BOXX |
-| 82 | 92 | $22.49 | [Chart](https://www.tradingview.com/chart/?symbol=PYCR) | Paycor HCM, Inc. Common Stock | PYCR |
-| 82 | 92 | $53.67 | [Chart](https://www.tradingview.com/chart/?symbol=IGF) | iShares Global Infrastructure ETF | IGF |
-| 82 | 92 | $58.83 | [Chart](https://www.tradingview.com/chart/?symbol=RYTM) | Rhythm Pharmaceuticals, Inc. Common Stock | RYTM |
+| 81 | 94 | $111.65 | [Chart](https://www.tradingview.com/chart/?symbol=BOXX) | Alpha Architect 1-3 Month Box ETF | BOXX |
+| 82 | 93 | $35.88 | [Chart](https://www.tradingview.com/chart/?symbol=FYBR) | Frontier Communications Parent, Inc. Common Stock | FYBR |
+| 82 | 92 | $53.85 | [Chart](https://www.tradingview.com/chart/?symbol=IGF) | iShares Global Infrastructure ETF | IGF |
+| 81 | 91 | $22.48 | [Chart](https://www.tradingview.com/chart/?symbol=PYCR) | Paycor HCM, Inc. Common Stock | PYCR |
 
 ---
 
 
 ## **Sell Recommendations**
 
-The following 49 stocks show deteriorating relative strength:
+The following 48 stocks show deteriorating relative strength:
 
 | RS Rating | Sell Score | Current Price | Chart | Name | Ticker |
 |-----------|------------|---------------|-------|------|--------|
-| 1 | 100 | $66.39 | [Chart](https://www.tradingview.com/chart/?symbol=PI) | Impinj, Inc. Common Stock | PI |
-| 3 | 100 | $18.94 | [Chart](https://www.tradingview.com/chart/?symbol=DJT) | Trump Media & Technology Group Corp. Common Stock | DJT |
-| 4 | 100 | $34.34 | [Chart](https://www.tradingview.com/chart/?symbol=HELE) | Helen Of Troy Ltd | HELE |
+| 1 | 100 | $66.59 | [Chart](https://www.tradingview.com/chart/?symbol=PI) | Impinj, Inc. Common Stock | PI |
+| 3 | 100 | $18.91 | [Chart](https://www.tradingview.com/chart/?symbol=DJT) | Trump Media & Technology Group Corp. Common Stock | DJT |
+| 4 | 100 | $34.22 | [Chart](https://www.tradingview.com/chart/?symbol=HELE) | Helen Of Troy Ltd | HELE |
 | 5 | 100 | $11.56 | [Chart](https://www.tradingview.com/chart/?symbol=GCT) | GigaCloud Technology Inc Class A Ordinary Shares | GCT |
 | 6 | 100 | $10.10 | [Chart](https://www.tradingview.com/chart/?symbol=CGEM) | Cullinan Therapeutics, Inc. Common Stock | CGEM |
-| 11 | 100 | $42.94 | [Chart](https://www.tradingview.com/chart/?symbol=EDU) | New Oriental Education and Technology Group, Inc. American Depositary Shares (each representing ten (10) Common Shares) | EDU |
+| 11 | 100 | $43.08 | [Chart](https://www.tradingview.com/chart/?symbol=EDU) | New Oriental Education and Technology Group, Inc. American Depositary Shares (each representing ten (10) Common Shares) | EDU |
 | 12 | 100 | $27.24 | [Chart](https://www.tradingview.com/chart/?symbol=SRDX) | Surmodics, Inc. Common Stock | SRDX |
-| 13 | 98 | $19.47 | [Chart](https://www.tradingview.com/chart/?symbol=ST) | Sensata Technologies Holding plc | ST |
+| 13 | 98 | $19.48 | [Chart](https://www.tradingview.com/chart/?symbol=ST) | Sensata Technologies Holding plc | ST |
 | 14 | 95 | $11.78 | [Chart](https://www.tradingview.com/chart/?symbol=AEYE) | AudioEye, Inc. Common Stock | AEYE |
-| 17 | 94 | $51.01 | [Chart](https://www.tradingview.com/chart/?symbol=ENPH) | Enphase Energy, Inc. | ENPH |
-| 15 | 93 | $19.22 | [Chart](https://www.tradingview.com/chart/?symbol=HZO) | MarineMax, Inc. | HZO |
+| 14 | 94 | $18.85 | [Chart](https://www.tradingview.com/chart/?symbol=HZO) | MarineMax, Inc. | HZO |
+| 12 | 93 | $59.91 | [Chart](https://www.tradingview.com/chart/?symbol=ASGN) | ASGN Incorporated | ASGN |
+| 17 | 93 | $51.69 | [Chart](https://www.tradingview.com/chart/?symbol=ENPH) | Enphase Energy, Inc. | ENPH |
 | 24 | 93 | $10.03 | [Chart](https://www.tradingview.com/chart/?symbol=MTAL) | MAC Copper Limited | MTAL |
-| 13 | 92 | $60.49 | [Chart](https://www.tradingview.com/chart/?symbol=ASGN) | ASGN Incorporated | ASGN |
-| 19 | 92 | $52.15 | [Chart](https://www.tradingview.com/chart/?symbol=CNMD) | CONMED Corporation | CNMD |
-| 27 | 91 | $13.14 | [Chart](https://www.tradingview.com/chart/?symbol=MED) | Medifast, Inc. | MED |
+| 18 | 92 | $51.28 | [Chart](https://www.tradingview.com/chart/?symbol=CNMD) | CONMED Corporation | CNMD |
 | 16 | 90 | $10.24 | [Chart](https://www.tradingview.com/chart/?symbol=EXPI) | eXp World Holdings, Inc. Common Stock | EXPI |
-| 16 | 90 | $49.09 | [Chart](https://www.tradingview.com/chart/?symbol=RHI) | Robert Half Inc. | RHI |
-| 12 | 89 | $12.49 | [Chart](https://www.tradingview.com/chart/?symbol=MARA) | MARA Holdings, Inc. Common Stock | MARA |
+| 16 | 90 | $49.16 | [Chart](https://www.tradingview.com/chart/?symbol=RHI) | Robert Half Inc. | RHI |
+| 12 | 89 | $12.52 | [Chart](https://www.tradingview.com/chart/?symbol=MARA) | MARA Holdings, Inc. Common Stock | MARA |
 | 12 | 89 | $10.01 | [Chart](https://www.tradingview.com/chart/?symbol=VYX) | NCR Voyix Corporation | VYX |
-| 18 | 89 | $334.23 | [Chart](https://www.tradingview.com/chart/?symbol=SAIA) | Saia, Inc. | SAIA |
-| 26 | 89 | $13.50 | [Chart](https://www.tradingview.com/chart/?symbol=FXN) | First Trust Energy AlphaDEX Fund | FXN |
-| 15 | 86 | $10.31 | [Chart](https://www.tradingview.com/chart/?symbol=VREX) | Varex Imaging Corporation Common Stock | VREX |
-| 19 | 85 | $16.79 | [Chart](https://www.tradingview.com/chart/?symbol=IART) | Integra LifeSciences Holdings | IART |
-| 22 | 85 | $10.49 | [Chart](https://www.tradingview.com/chart/?symbol=PEB) | Pebblebrook Hotel Trust | PEB |
-| 22 | 85 | $22.38 | [Chart](https://www.tradingview.com/chart/?symbol=HOG) | Harley-Davidson, Inc. | HOG |
+| 17 | 89 | $331.54 | [Chart](https://www.tradingview.com/chart/?symbol=SAIA) | Saia, Inc. | SAIA |
+| 27 | 88 | $13.62 | [Chart](https://www.tradingview.com/chart/?symbol=FXN) | First Trust Energy AlphaDEX Fund | FXN |
+| 14 | 87 | $10.31 | [Chart](https://www.tradingview.com/chart/?symbol=VREX) | Varex Imaging Corporation Common Stock | VREX |
+| 21 | 86 | $10.49 | [Chart](https://www.tradingview.com/chart/?symbol=PEB) | Pebblebrook Hotel Trust | PEB |
+| 21 | 86 | $22.34 | [Chart](https://www.tradingview.com/chart/?symbol=HOG) | Harley-Davidson, Inc. | HOG |
+| 33 | 86 | $12.98 | [Chart](https://www.tradingview.com/chart/?symbol=MED) | Medifast, Inc. | MED |
+| 20 | 85 | $11.34 | [Chart](https://www.tradingview.com/chart/?symbol=HPK) | HighPeak Energy, Inc. Common Stock | HPK |
 | 16 | 84 | $111.89 | [Chart](https://www.tradingview.com/chart/?symbol=MYRG) | MYR Group, Inc. | MYRG |
 | 19 | 84 | $10.15 | [Chart](https://www.tradingview.com/chart/?symbol=HLIT) | Harmonic Inc | HLIT |
-| 21 | 84 | $11.34 | [Chart](https://www.tradingview.com/chart/?symbol=HPK) | HighPeak Energy, Inc. Common Stock | HPK |
-| 23 | 84 | $27.49 | [Chart](https://www.tradingview.com/chart/?symbol=TAN) | Invesco Solar ETF | TAN |
+| 20 | 84 | $17.07 | [Chart](https://www.tradingview.com/chart/?symbol=IART) | Integra LifeSciences Holdings | IART |
 | 28 | 84 | $10.11 | [Chart](https://www.tradingview.com/chart/?symbol=CELC) | Celcuity Inc. Common Stock | CELC |
 | 24 | 83 | $10.04 | [Chart](https://www.tradingview.com/chart/?symbol=HTLD) | Heartland Express Inc | HTLD |
-| 26 | 81 | $10.56 | [Chart](https://www.tradingview.com/chart/?symbol=CMP) | Compass Minerals International, Inc. | CMP |
-| 26 | 80 | $51.67 | [Chart](https://www.tradingview.com/chart/?symbol=HXL) | Hexcel Corporation | HXL |
-| 26 | 80 | $11.29 | [Chart](https://www.tradingview.com/chart/?symbol=RIVN) | Rivian Automotive, Inc. Class A Common Stock | RIVN |
+| 26 | 80 | $51.87 | [Chart](https://www.tradingview.com/chart/?symbol=HXL) | Hexcel Corporation | HXL |
+| 26 | 80 | $11.36 | [Chart](https://www.tradingview.com/chart/?symbol=RIVN) | Rivian Automotive, Inc. Class A Common Stock | RIVN |
+| 30 | 80 | $10.71 | [Chart](https://www.tradingview.com/chart/?symbol=DBRG) | DigitalBridge Group, Inc. | DBRG |
+| 32 | 80 | $76.83 | [Chart](https://www.tradingview.com/chart/?symbol=LEA) | Lear Corporation | LEA |
 | 24 | 79 | $10.26 | [Chart](https://www.tradingview.com/chart/?symbol=PACS) | PACS Group, Inc. | PACS |
-| 31 | 79 | $10.71 | [Chart](https://www.tradingview.com/chart/?symbol=DBRG) | DigitalBridge Group, Inc. | DBRG |
-| 33 | 79 | $76.88 | [Chart](https://www.tradingview.com/chart/?symbol=LEA) | Lear Corporation | LEA |
-| 31 | 77 | $56.15 | [Chart](https://www.tradingview.com/chart/?symbol=BMRN) | BioMarin Pharmaceuticals Inc | BMRN |
-| 33 | 75 | $10.87 | [Chart](https://www.tradingview.com/chart/?symbol=NAVI) | Navient Corporation | NAVI |
+| 27 | 78 | $13.68 | [Chart](https://www.tradingview.com/chart/?symbol=MANU) | MANCHESTER UNITED PLC | MANU |
+| 29 | 77 | $10.79 | [Chart](https://www.tradingview.com/chart/?symbol=CMP) | Compass Minerals International, Inc. | CMP |
+| 31 | 77 | $56.22 | [Chart](https://www.tradingview.com/chart/?symbol=BMRN) | BioMarin Pharmaceuticals Inc | BMRN |
 | 36 | 75 | $10.30 | [Chart](https://www.tradingview.com/chart/?symbol=CSTM) | Constellium SE Class A Ordinary shares | CSTM |
-| 39 | 74 | $65.11 | [Chart](https://www.tradingview.com/chart/?symbol=TXT) | Textron, Inc. | TXT |
-| 34 | 71 | $10.34 | [Chart](https://www.tradingview.com/chart/?symbol=CMRE) | Costamare Inc. | CMRE |
-| 36 | 71 | $10.85 | [Chart](https://www.tradingview.com/chart/?symbol=LBTYK) | Liberty Global Ltd. Class C Common Shares | LBTYK |
-| 32 | 70 | $24.95 | [Chart](https://www.tradingview.com/chart/?symbol=RAMP) | LiveRamp Holdings, Inc. Common Stock | RAMP |
-| 32 | 70 | $29.08 | [Chart](https://www.tradingview.com/chart/?symbol=TPH) | Tri Pointe Homes, Inc. | TPH |
-| 38 | 68 | $79.67 | [Chart](https://www.tradingview.com/chart/?symbol=ALV) | Autoliv, Inc. | ALV |
-| 39 | 68 | $23.85 | [Chart](https://www.tradingview.com/chart/?symbol=AMRK) | A-Mark Precious Metals, Inc. | AMRK |
-| 39 | 68 | $28.87 | [Chart](https://www.tradingview.com/chart/?symbol=DAR) | DARLING INGREDIENTS INC. | DAR |
-| 39 | 65 | $153.30 | [Chart](https://www.tradingview.com/chart/?symbol=ODFL) | Old Dominion Freight Line | ODFL |
+| 33 | 72 | $10.34 | [Chart](https://www.tradingview.com/chart/?symbol=CMRE) | Costamare Inc. | CMRE |
+| 36 | 72 | $11.03 | [Chart](https://www.tradingview.com/chart/?symbol=NAVI) | Navient Corporation | NAVI |
+| 32 | 71 | $105.75 | [Chart](https://www.tradingview.com/chart/?symbol=MHO) | M/I Homes, Inc. | MHO |
+| 36 | 71 | $10.82 | [Chart](https://www.tradingview.com/chart/?symbol=LBTYK) | Liberty Global Ltd. Class C Common Shares | LBTYK |
+| 32 | 70 | $24.96 | [Chart](https://www.tradingview.com/chart/?symbol=RAMP) | LiveRamp Holdings, Inc. Common Stock | RAMP |
+| 32 | 70 | $29.20 | [Chart](https://www.tradingview.com/chart/?symbol=TPH) | Tri Pointe Homes, Inc. | TPH |
+| 38 | 68 | $79.55 | [Chart](https://www.tradingview.com/chart/?symbol=ALV) | Autoliv, Inc. | ALV |
+| 39 | 68 | $23.79 | [Chart](https://www.tradingview.com/chart/?symbol=AMRK) | A-Mark Precious Metals, Inc. | AMRK |
+| 37 | 67 | $152.40 | [Chart](https://www.tradingview.com/chart/?symbol=ODFL) | Old Dominion Freight Line | ODFL |
 
 ## **Methodology**
 
